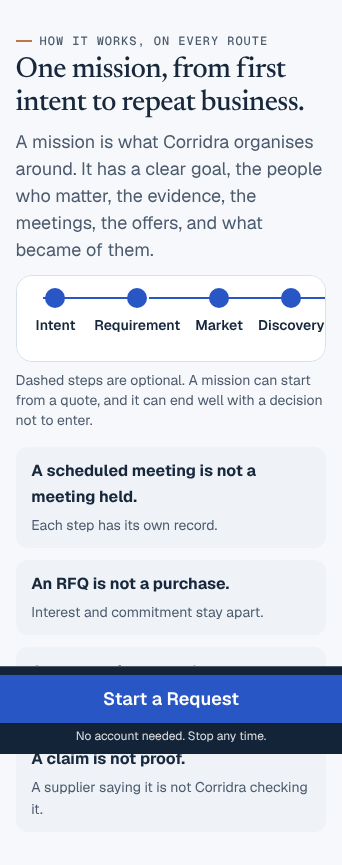
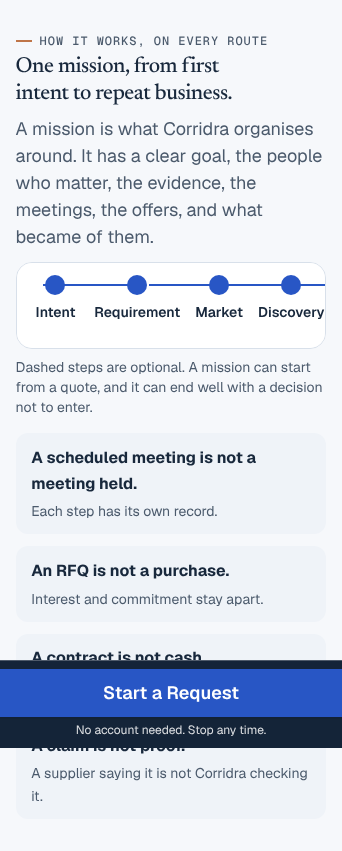
LP3 round 2: section titles stay at the v3 section-title size, sub-heads 18 (Guardian 29 decision)
Claude-Session: https://claude.ai/code/session_0187kU9uBzUghkCHQRMmLLC3

diff --git a/tests/browser/home-board-3c.spec.ts b/tests/browser/home-board-3c.spec.ts
@@ -110,6 +110,8 @@ test('a door changes the headline to its proposition, preselects the person, the
   await expect(page.locator('#routes .is-mine')).toContainText('Any other route');
 });
 
+// The owner's board 3c draws "Showing:" on screen ("board 3c in full" supersedes the LP2 finding; Guardian 29, round
+// 2). The line stays aria-live polite, so screen readers still hear each change.
 test('the route state is shown and told: "Showing:" names the open route (review round 2, D13)', async ({
   page,
 }) => {
@@ -459,15 +461,17 @@ test('chosen states use the selected token; titles, sub-heads and key sentences 
         body: px('main p:not([class])') || 16,
       };
     });
+  // UI/UX.v3's locked section title (24, 22 on a phone) wins over the board; sub-heads are smaller (18).
   let s = await sizes();
-  expect(s.h2).toBe(40);
-  expect(s.h3).toBe(24);
+  expect(s.h2).toBe(24);
+  expect(s.h3).toBe(18);
+  expect(s.h3).toBeLessThan(s.h2);
   expect(s.sub).toBe(18);
   await page.setViewportSize({ width: 390, height: 844 });
   s = await sizes();
-  expect(s.h2).toBeGreaterThan(s.h3);
-  expect(s.h3).toBe(22);
-  expect(s.sub).toBeGreaterThan(16);
+  expect(s.h2).toBe(22);
+  expect(s.h3).toBeLessThan(s.h2);
+  expect(s.sub).toBe(18);
   // Weights stay in the locked set.
   for (const selector of ['#sell-title', '#worth-title'])
     expect(await page.locator(selector).evaluate((el) => getComputedStyle(el).fontWeight)).toBe(

diff --git a/apps/web/components/home-routes.css b/apps/web/components/home-routes.css
@@ -1945,17 +1945,18 @@
 .tr-home .tr-stops button[aria-pressed='true'] .tr-time {
   color: var(--on-action);
 }
-/* Hierarchy (review round 2, D14): route and section titles at the page-title token, sub-heads at the
-   section-title token, the key sentence under a title larger than body text. The hero headline stays display. */
+/* Hierarchy (review round 2, D14; Guardian 29): section titles stay at the locked section-title size (24, 22 on a
+   phone, UI/UX.v3), sub-heads step down to the card-title size (18), and the key sentence under a title is 18. The
+   hero headline stays display. */
 .ux-guide-home.tr-home .tr-section h2 {
-  font-size: var(--text-h1);
-  font-weight: 500;
-  line-height: 1.15;
-}
-.ux-guide-home.tr-home .tr-h3 {
   font-size: var(--text-h2);
   font-weight: 500;
   line-height: 1.2;
+}
+.ux-guide-home.tr-home .tr-h3 {
+  font-size: var(--text-lg);
+  font-weight: 500;
+  line-height: 1.3;
 }
 .ux-guide-home.tr-home .tr-section .tr-sub {
   font-size: var(--text-lg);

diff --git a/docs/revamp/specs/public-home.md b/docs/revamp/specs/public-home.md
@@ -74,5 +74,5 @@ Owner words, first hand to Guardian 29: "why didnt we implement https://claude.a
 - **Header.** Unchanged in LP3: the header for every public page, the home included, is built once by Wave 1 unit W1-A (Guardian 29, 18 November 2026, from the owner's step 2 board). The footer is unchanged.
 - **Languages.** New words are English in every catalog; the board's Bangla, Chinese and Spanish hero lines are drafts shown only while that language's page words are released, with "Draft translation. Native review pending."
 - **Shared patterns.** The new pieces are shared components in `apps/web/components/ux/`: `flag.tsx` (Flag, Flagged, RegionMark, the compass mark for Key Asian Markets, and RouteLine), `door-card.tsx`, `choice-chip.tsx`, `number-field.tsx`, `example-tag.tsx` (ExampleTag, Eyebrow), `start-bar.tsx` and `open-card.tsx` (OpenCard, QuietButton: in-page choices that change what the page shows, never a cobalt fill).
-- **Review round 2 (Guardian 29).** Doors show a radio circle; the hero adds "Choose one. The page below opens that route." and "Each door opens its own worked example further down this page."; the mission steps are one connected rail (solid, dashed into and out of optional steps) that scrolls inside its own region on a phone; what each person gets sits on the selected surface with a selected edge; route and section titles use `--text-h1`, sub-heads `--text-h2`, section leads `--text-lg`; route test lines start with a small action dot. People, its tabs and the mission rail are shared with /how-it-works, so the selected tab there is cobalt too. A link to `/plan` that carries notes and meets a saved draft always asks; the question names a job only when the link chose it.
+- **Review round 2 (Guardian 29).** Doors show a radio circle; the hero adds "Choose one. The page below opens that route." and "Each door opens its own worked example further down this page."; the mission steps are one connected rail (solid, dashed into and out of optional steps) that scrolls inside its own region on a phone; what each person gets sits on the selected surface with a selected edge; section titles stay at the UI/UX.v3 section-title size (`--text-h2`, 24 and 22 on a phone), sub-heads step down to 18 (`--text-lg`) and section leads are 18 (`--text-lg`); route test lines start with a small action dot. People, its tabs and the mission rail are shared with /how-it-works, so the selected tab there is cobalt too. A link to `/plan` that carries notes and meets a saved draft always asks; the question names a job only when the link chose it.
 - **Where UI/UX.v3 wins over the board.** Colours, type and radii come from the tokens (no board hex, weights 400 to 600, Newsreader headings, rounding B, capsules for badges only); cobalt is the only action fill; no dark mode; reduced motion removes every slide and fade; the Start a Request action stays above the doors so it is on a phone's first screen.
